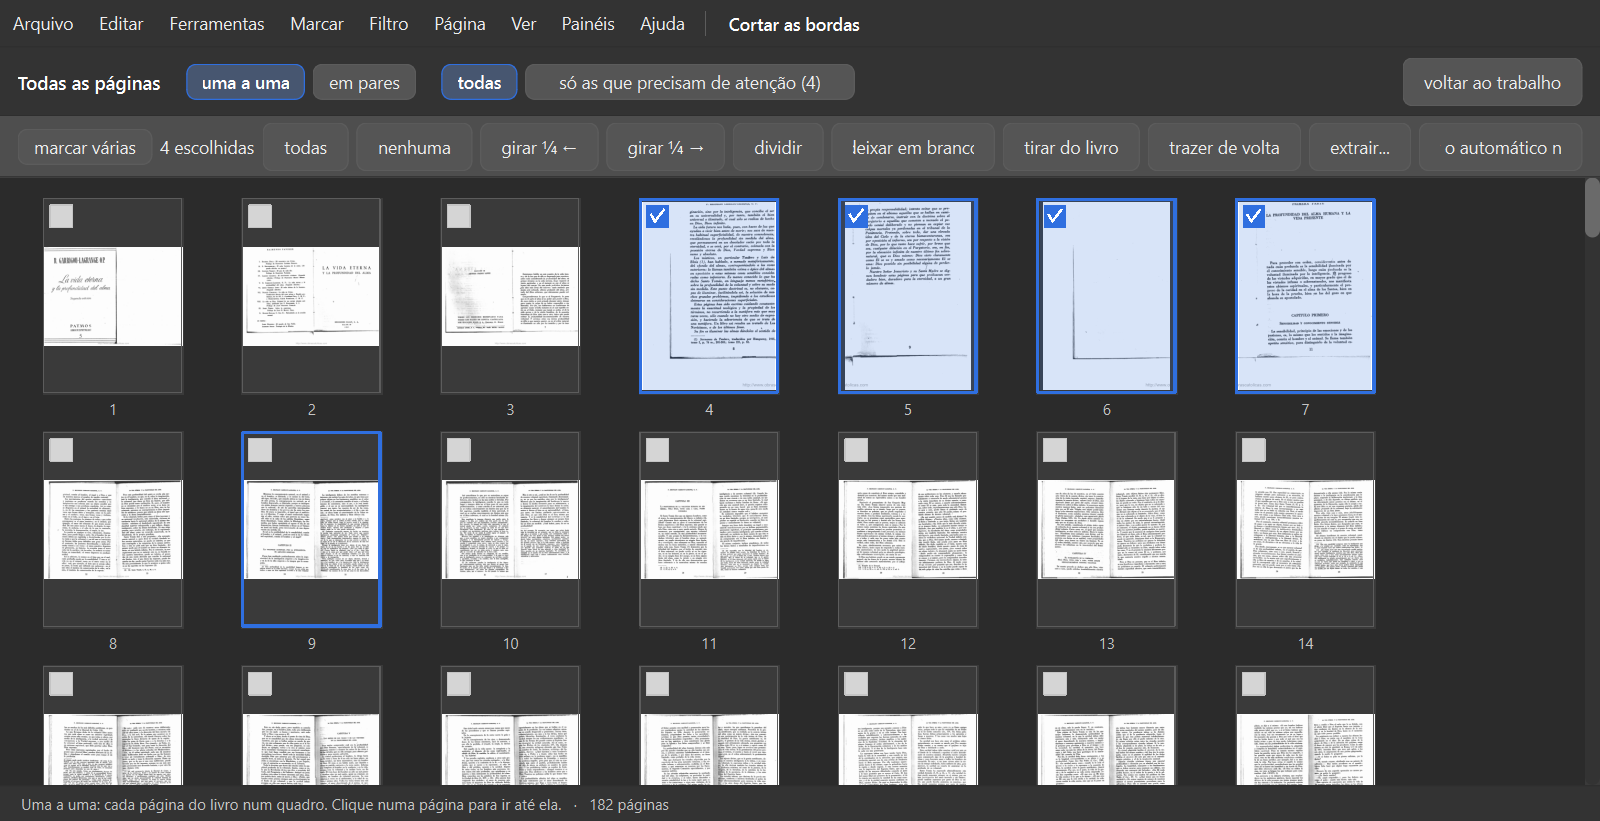
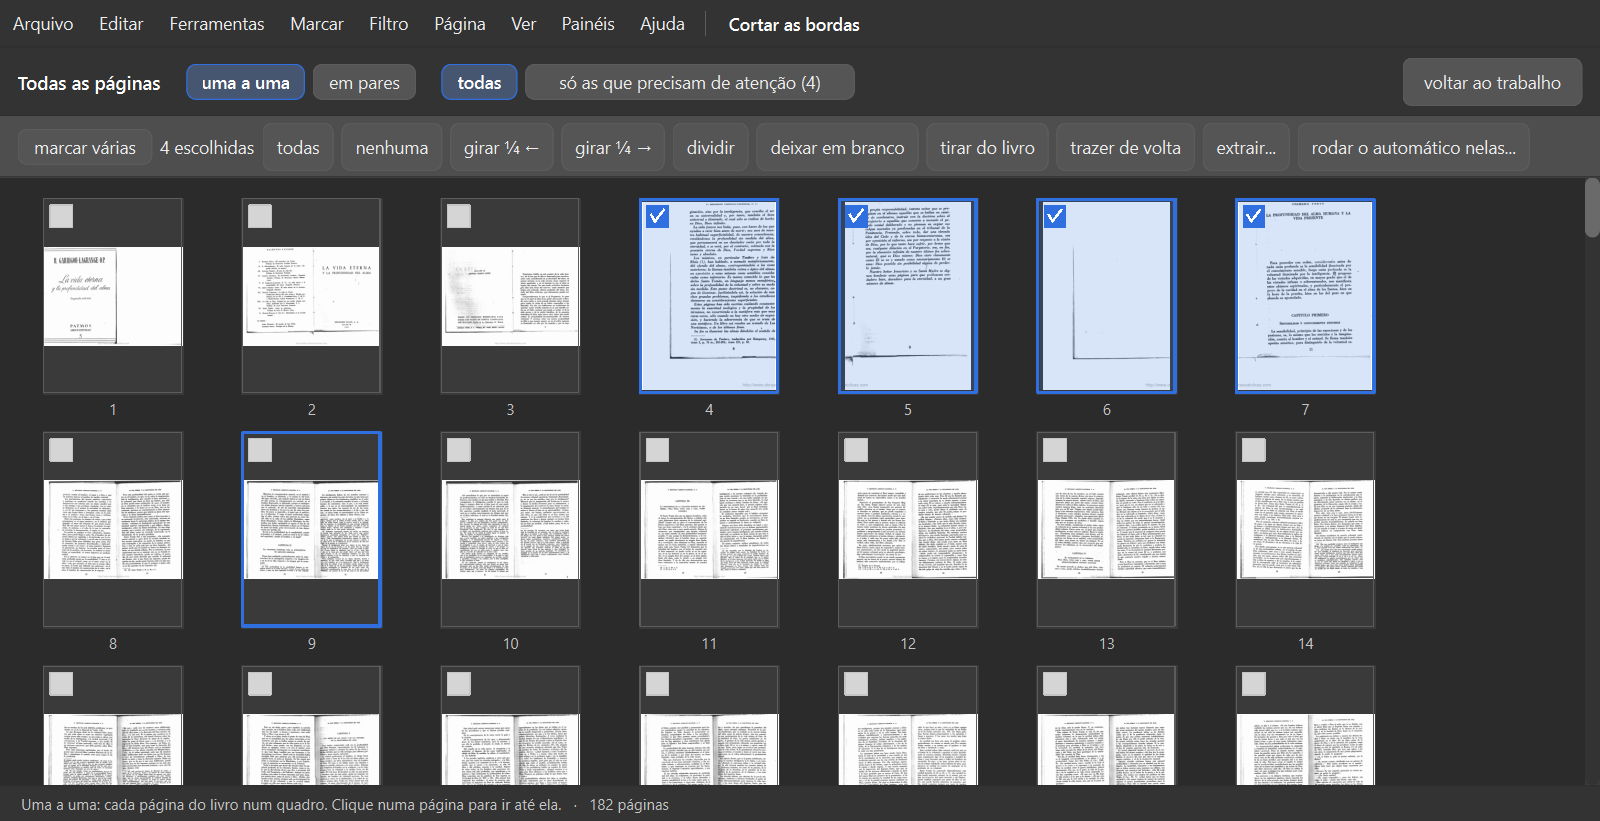
Etapa 9b-2: prints da janela de verdade (16 de 16 conferências) e ONDE-PAREI

Changed region(s): [[0.3125, 0.1523, 0.9688, 0.2132], [0.1875, 0.1523, 0.2812, 0.2132]]

diff --git a/relatorios/obra-etapa9b2/ONDE-PAREI.md b/relatorios/obra-etapa9b2/ONDE-PAREI.md
@@ -3,12 +3,23 @@
 Ramo `obra-etapa9b2-2026-10-26` (base `obra-2026-10-26` = `27b4c52`), worktree `.claude/worktrees/obra-etapa9b2`.
 Agente: layout + implementador. Ao mesmo tempo, a etapa 9b-1 mexe em menus, impressão e janelas
 (`ui/janela_principal.py`, `ui/barra_de_menu.py`, `ui/dialogo_impressao.py`, `ui/janela_confirmar.py`,
-`ui/widgets/paineis.py`, `modelos.nome_de_saida_sugerido`): evito esses arquivos.
+`ui/widgets/paineis.py`, `modelos.nome_de_saida_sugerido`): **não mexi em nenhum deles** (só chamei métodos que já
+existiam neles: `paineis.automatico.estado.do_projeto` e o atributo `medida_ao_abrir` da janela).
 
 Regra 7 (Samuel, 27/10/2026): "é só para fazer o que eu já tinha mandado, fazer as ferramentas que colocamos no
 programa funcionem como deveriam e como eu tinha escolhido."
 
-**Situação: em andamento** (começada em 27/10/2026).
+**Situação: PRONTO PARA CONFERIR** (27-28/10/2026). Falta: verificador separado, conferência do Samuel. Nada juntado.
+
+## Em uma frase
+
+Agora a grade "Todas as páginas" divide as folhas escolhidas (com a conta do ScanTailor do "dividir esta", com
+andamento); a faixa preta da tampa do scanner some também pelo Automático, cortada ou pintada de branco como o livro
+escolher; as telas e as miniaturas mostram a página movida como sai no PDF, e a tela troca pela imagem do PDF quando
+ela fica pronta, com as duas bolinhas de carregamento; com zoom a roda anda pela página e o lado a lado tem zoom; o
+Cortar tem a caixinha "Margens iguais"; o desfazer tira o retângulo marcado (e ele não sai mais impresso) e devolve
+os avisos; o "usar em todas" do Dividir pergunta em quais folhas; "letra e traço" à mão protege a tinta; e saíram as
+duas contas que o Samuel mandou tirar.
 
 ## Decisões que esta tarefa precisa cumprir (número + palavras dele)
 
@@ -20,7 +31,7 @@ programa funcionem como deveriam e como eu tinha escolhido."
 | D-097 (13-21/10) | "É para sumir totalmente." · "tem que ficar rente a folha de papel, não pode ter preto ali." | Nada de preto da tampa no PDF. |
 | D-092 (09/10) | `rv5-pag-egenloff-047`: "O Kaique escolhe por livro" | A escolha cortar / pintar de branco é do livro. |
 | D-547 (27/10) | (escolha da gerente sobre D-066: "precisamos que o pdf saia que nem está na tela") | Todas as telas e miniaturas mostram a página movida/redimensionada como sai no PDF. |
-| D-473 / D-066 / D-064 | D-066: "precisamos que o pdf saia que nem está na tela" · D-064: "é só colocar uma bolinha de carregamento, pode ter uma pro livro inteiro e outra para a pagina que estamos, quando passsamos o mouse em cima mostra a mensagem de porcentagem e quantas paginas carregaram já." | Quando a medida no tamanho do PDF termina, a tela troca pela imagem do PDF reduzida (troca da 10b, `ui/tarefas.py`). |
+| D-473 / D-066 / D-064 | D-066: "precisamos que o pdf saia que nem está na tela" · D-064: "é só colocar uma bolinha de carregamento, pode ter uma pro livro inteiro e outra para a pagina que estamos, quando passsamos o mouse em cima mostra a mensagem de porcentagem e quantas paginas carregaram já." | Quando a medida no tamanho do PDF termina, a tela troca pela imagem do PDF reduzida (troca da 10b, `ui/tarefas.py`), e as duas bolinhas. |
 | D-568 (27/10) | `v-roda`: "Como ficou: sem zoom troca de página; Ctrl + roda dá zoom" | Com zoom, a roda anda pela página. |
 | D-570 (27/10) | `v-zoom-pares`: "Sim, zoom também no lado a lado" | O "– N% +" vale no "Duas lado a lado". |
 | D-571 (27/10) | `v-100`: "A página inteira cabendo na tela (recomendo)" | Conferir: 100% = página inteira cabendo. |
@@ -28,18 +39,149 @@ programa funcionem como deveriam e como eu tinha escolhido."
 | D-563 (27/10) | `ac-desentortar-texto`: "Tirar, voltar como era antes (recomendo)" | Sai a conta "desentortar só o bloco do texto" (D-493/D-530), com os testes dela. |
 | D-564 (27/10) | `ac-gravura-cinza`: "Não fazer: gravura continua em preto e branco (recomendo)" | Sai a chave `GRAVURA_ESCURA_EM_CINZA` (D-532), com os testes dela. |
 | D-020 (18/07) + P-129 | "13. Ctrl+Z desfaz qualquer alteração, sem limite de quantidade, e Ctrl+Shift+Z refaz" | O desfazer tira a marcação do Retângulo (lista 1.3, 1.9, 4.6); o aviso volta (1.6); o desfazer não desfaz o que não está à vista (1.7). |
-| D-090 / D-091 + P-061 | "eu devo conseguir abrir uma aba para selecionar as que eu quero ( as paginas) ou também simplismente apertar num botão e selecionar todas." · "'Selecionar todas' e 'Nenhuma'" | "usar em todas" (Bordas e Dividir) abre a lista com as exceções desmarcadas e nunca apaga exceção. |
+| D-090 / D-091 + P-061 | "eu devo conseguir abrir uma aba para selecionar as que eu quero ( as paginas) ou também simplismente apertar num botão e selecionar todas." · "'Selecionar todas' e 'Nenhuma'" | "usar em todas" (Cortar e Dividir) abre a lista com as exceções desmarcadas e nunca apaga exceção. |
 | D-156 (01/10) | "espero ter a escolha de conseguir deixar a foto em original, caso precise." | "Só neste pedaço" vale também no Preto e branco / sem "Limpar a folha". |
 | Lista de bugs 12/10 | (bug) "letra e traço" marcado à mão não protege a tinta do "Só as letras" | A marcação à mão protege a tinta. |
 | Lista de bugs 22/10 | (bug) botões que aparecem por um instante como janelinhas soltas ao abrir | Não piscam. |
 | Lista de espera 29/09 | "Recuperar o trabalho anterior" no menu do cartão (ideia de agente, "a definir") | Não é decisão do Samuel no Livro: fica como está, vira pergunta. |
+| D-114 (18/07) | "PRETO E BRANCO → slider 'Força do preto' [...] MÁGICO PRO → slider 'Intensidade' [...] MELHORAR → slider 'Clareza do fundo'" | (lista 1.2 e 5.9) o aviso da "força do preto" só na página de Preto e branco. |
+| D-037 / D-052 | R7 203: "D — Ícones na borda, tudo fechado" · R13 802: "A — Abre sozinho" | (lista 2.3) os painéis começam fechados e o Propriedades abre ao escolher Dividir/Cortar/Endireitar: como ele decidiu, nada a mudar. |
 | Lista única 1.2, 5.9, 1.4, 1.5, 1.10, 1.11, 1.13, 3.2, 2.3, 2.6, 5.3, 5.6, 5.7 | (ver `relatorios/testes-guiados/lista-unica-2026-10-23/lista.md`) | Conferir o que as etapas anteriores já resolveram; fazer só o que falta, como o Livro decide. |
 
-## Andamento (27/10, noite)
+## Como cumpri cada uma
 
-Feitos, com prova em `tests/test_decisoes_9b2.py` (commits no ramo): D-563, D-564, D-554, D-568, D-570, D-571,
-D-558, D-559, D-547 + a troca da 10b (D-473/D-064, bolinhas), desfazer da marcação (P-129; lista 1.3, 1.6, 1.7,
-1.9, 4.6), "usar em todas" do Dividir (D-090, P-061), "letra e traço" à mão (bug 12/10), "só neste pedaço"
-(D-156: já consertado antes, só a prova), botões que piscavam (bug 22/10).
-Falta: lista única (1.2/5.9, 1.4, 1.5, 1.10, 1.11, 1.13, 3.2, 2.3, 2.6, 5.3, 5.6, 5.7), reversão no código antigo,
-somas, prints, GitHub, relatório final.
+Provas em `tests/test_decisoes_9b2.py` (30 testes; todos passam aqui). **Reversão** no código antigo (`27b4c52`):
+**25 falham lá, 5 passam** — os 5 são guardas de propósito (ver "Testes"). Prints da janela de verdade (1280×657 fora da
+tela; a tela do PC está a 125%, os prints saem 1600×821) em `relatorios/obra-etapa9b2/prints/` (roteiro
+`roteiro/prints.py`, cliques por mensagens do Windows; abri e olhei todos).
+
+| Decisão / item | O que ficou no programa | Prova | Print |
+|---|---|---|---|
+| **D-558** | Botão **"dividir"** na faixa das escolhidas da grade. Divide as folhas das páginas escolhidas que saem como uma página só, pela MESMA conta do "dividir esta" (`core/dividir_a_mao.medir_para_dividir`: a folha girada como está, a tampa, a lombada pelo jeito da folha — o do ScanTailor de fábrica; as marcações à mão vão para a metade em que estão, D-528). Por trás (`ui/tarefas.TarefaDividirFolhas`), com a caixa "Dividindo as folhas escolhidas... 3 de 12" e "parar" (parar não muda nada). O livro muda numa ação só do desfazer; a grade volta com as páginas novas escolhidas. Folha já dividida fica como está. | `test_d558_*` (ScanTailor chamado nas 2 folhas, linha na lombada, só elas divididas, 1 ação, PDF com 6 páginas, Ctrl+Z junta) | `depois-03-grade-dividir.png`, `depois-04-grade-depois-de-dividir.png` |
+| **D-559** | O Automático procura a tampa em **toda folha que ele olha** (a regra da etapa 4, que não pega moldura impressa: varredura das 2.903 folhas, `relatorios/obra-etapa4/varrer-tampa-acervo.json`) e mede o resto na folha já sem ela; a folha guarda a tampa na mesma ação do Automático. O que fazer com ela é a escolha do livro **"O que fica fora da página: cortar fora / pintar de branco"** (a mesma da D-092, `Projeto.borda_preta_fazer`; "cortar fora" de fábrica): pintar = a faixa sai branca (como na etapa 4); cortar = sai branca E a página é cortada na beirada da tampa (`dividir_a_mao.corte_sem_a_tampa`; o corte feito à mão vale como está). A escolha agora fica à vista no Automático também com a borda preta desmarcada (vale para as duas). | `test_d559_*` (3 folhas como o Righetti, Automático só com Endireitar: tampa nas 3, nenhuma faixa no PDF; "cortar" → página mais baixa; "pintar" → do tamanho da folha, faixa branca; Ctrl+Z tira; moldura impressa preta inteira; a escolha à vista). Os 3 testes da etapa 4 que provavam "pelo Automático a faixa fica" foram trocados para a regra nova (o Righetti 96 de verdade: 0 linhas pretas também pelo Automático). | `depois-14-righetti-girado-com-a-faixa-da-tampa.png` × `depois-15-righetti-pelo-automatico-sem-a-faixa.png`, `depois-12-automatico-cortar.png` |
+| **D-547** | A página movida/redimensionada (ou numa folha escolhida, ou com margens iguais) aparece **como sai no PDF** (`TelaConferir._como_sai_no_pdf`: margens + `core.folha.compor_na_folha`, a mesma conta do PDF) no **lado a lado**, no **"antes / depois"**, na **tela cheia dos filtros**, nos **cartões do painel Filtro** e na **miniatura** dela. As ferramentas em que se marca, corta, divide ou endireita SOBRE a página continuam mostrando a página (D-546: a marcação e o corte são frações da página); o Mover já compunha. | `test_d547_*` (página a 60%: a caixa do texto no lado a lado, no antes/depois, na tela cheia e na miniatura é a do PDF, até 3%) | `depois-08-mover-60-por-cento.png`, `depois-09-lado-a-lado-com-a-pagina-movida.png` |
+| **D-473 + D-064 (a troca da 10b)** | Quando o desenho do tamanho do PDF da página da vez termina (`GerenciadorPrevias.pedir_medida`), a imagem volta **reduzida** (INTER_AREA, no fio de fundo) e entra no lugar da prévia na chave da prévia, se a página não mudou; a tela redesenha (`pronta`). Duas **bolinhas** na barra de baixo: a **da página** gira enquanto a prévia não chegou ou a imagem do PDF está sendo feita ("Esta página: preparando a imagem igual ao PDF..."), a **do livro** gira enquanto o livro é medido por trás (D-284) ou as marcações são preparadas, com "Livro: 45% (90 de 200 folhas já carregadas)" no balão. Paradas, não aparecem. | `test_d473_d064_*` (bolinha gira com a frase; quando chega, a prévia da tela é a imagem do PDF; bolinha para) | `depois-10-...png` (a bolinha da página aparece ao lado de "página 11 de 182") |
+| **D-568** | Com zoom, a roda **anda pela página** (Shift ou a roda de lado: para os lados), parando na beirada; sem zoom troca de página; Ctrl+roda dá zoom. Na Mão/marcar e nas ferramentas de página. | `test_d568_*` (Mão e Endireitar) | `depois-06-zoom-156-roda-andou-para-baixo.png` |
+| **D-570** | O "– N% +", "ajustar à tela" e Ctrl+roda valem no "Duas lado a lado": 100% = o par inteiro na tela; acima, as páginas crescem (a da vez fica à vista; a roda rola, a barra de baixo vai para os lados). | `test_d570_*` (alturas × 1,25; Ctrl+roda; volta a 100%) | `depois-07-lado-a-lado-zoom-125.png` |
+| **D-571** | Conferido: "100%" já era a página inteira cabendo na tela (encosta na largura ou na altura, com a moldura). Nada mudou. | `test_d571_*` | `depois-05-zoom-100-pagina-inteira.png` |
+| **D-554** | Caixinha **"Margens iguais"** no "Para o livro todo" do Cortar: liga/desliga as margens iguais do LIVRO (o mesmo valor da etapa do Automático, que passa a mostrá-la), numa ação do desfazer; mostra o valor do livro sempre. | `test_d554_*` (Automático acompanha, Ctrl+Z, PDF com as páginas do mesmo tamanho) | `depois-01-cortar-margens-iguais.png`, `depois-02-...marcada.png` |
+| **D-563** | Saiu a conta "só o bloco do texto" (`_so_o_bloco_do_texto`, `so_o_bloco`, os números) e os 2 testes dela; a caixa do conteúdo é a de sempre. | `test_d563_*` | — |
+| **D-564** | Saiu `GRAVURA_ESCURA_EM_CINZA` e a conta (`_e_gravura_escura_ou_reticula`) e os 4 testes dela; ficou a prova de que o Palatino 74 sai em 1 bit. | `test_d564_*`, `test_decisoes_nucleo2.py::test_d564_palatino_74_continua_em_1_bit` | — |
+| **D-020 / P-129 / lista 1.3, 4.6, 1.7** | Toda mudança da marcação (área nova, "Limpar tudo", "Deixar a folha em branco", procurar de novo, mexer numa área) vira **uma ação do Histórico** com a marcação de antes e de depois: o Ctrl+Z, o menu e o desfazer de baixo a tiram e o PDF sai sem ela. Antes ela ficava fora do Histórico, e o desfazer de baixo desfazia a ação ANTERIOR (no Righetti, o giro das 135 folhas: 1.7). O "desfazer" do painel Marcar usa o mesmo desfazer quando a última ação é a marcação da página. | `test_p129_*` (retângulo "pintar" branco sobre o texto: some no PDF; desfazer de baixo o tira, o giro fica, o texto volta; "Limpar tudo" + desfazer traz de volta); promessa P-129 sem "aguarda" | `depois-10-...png`, `depois-11-depois-do-desfazer-de-baixo.png` |
+| **lista 1.6** | Toda ação de página e de folha guarda os **avisos de antes** (`alertas`, `alertas_aceitos`), e o desfazer os devolve como eram (nem some, nem vem um a mais). | `test_lista_1_6_*` | — |
+| **lista 1.9** | A área feita **à mão** ganha o contorno cheio na cor do tipo, por cima do colorido: aparece mesmo dentro de uma área do mesmo tipo achada pela máquina. | `test_lista_1_9_*` (medida no desenho do editor) | `depois-10-retangulo-a-mao-dentro-da-area-da-maquina.png` |
+| **D-090 / P-061 (Dividir)** | O "usar em todas" do Dividir abre **"Em quais páginas?" com as folhas** ("Folha 1"...; "Selecionar todas" / "Nenhuma"); a folha com a linha acertada à mão vem desmarcada ("linha própria") e fica com a dela; cancelar não muda nada. | `test_d090_usar_em_todas_do_dividir_*`; promessa P-061 sem "aguarda" | — (janela de exec: provado no teste) |
+| **D-090 (Cortar / Bordas)** | Conferido: já não apagava a exceção (item 2.13). | `test_d090_usar_em_todas_do_cortar_*` (guarda) | — |
+| **D-156 "só neste pedaço"** | Conferido: já valia no Preto e branco (conserto `60d8c58`) e sem "Limpar a folha" (etapa 1, D-009). Só a prova. | `test_d156_*` (guarda, nos dois casos) | — |
+| **Bug 12/10 "letra e traço"** | A área marcada à mão como "letra e traço" protege a tinta do "Só as letras" (`core/misto._letra_a_mao`, passada a `_fora_do_texto`): não é apagada nem contada como "de fora". Sem essa marcação, nada muda. | `test_bug_12_10_*` (modos "Guardar só o texto" e rede: a nota fica; o resto da página igual) | — |
+| **Bug 22/10 botões que piscam** | Os 3 botões do "Só as letras" e o "ver todas" das miniaturas não são mais mostrados antes de ter pai (viravam janelinhas soltas); os quadros da grade também não viram janela ao serem trocados. | `test_bug_22_10_*` (um vigia de janelas soltas) | — |
+| **lista 1.2 + 5.9** | O aviso "Ficou escura" / "Texto quase sumiu" (medido no cartão Preto e branco, com o botão da força do preto) só fica na página que sai em **Preto e branco** (como `analise.analisar_resultado` já dizia); ali o "usar mais fraco" muda a força do preto. Nas páginas de Mágico pro e Melhorar ele sai. | `test_lista_1_2_e_5_9_*` | — |
+| **lista 1.10** | A Tab da "próxima dúvida" vai à próxima dúvida mesmo com o foco num botão ou lista da área de trabalho (um filtro de teclas da aplicação pega a Tab antes de o Qt usá-la para mudar o foco). Shift+Tab e outra tecla escolhida: como sempre. | `test_lista_1_10_*` | — |
+| **lista 1.11** | Esc na grade "Todas as páginas" volta ao trabalho (como o botão; no "escolher páginas..." do Automático, como "cancelar"). | `test_lista_1_11_*` | — |
+| **lista 5.3** | A caixinha "Escurecer sozinho a força do preto quando o texto sair falhado" (Automático, Limpar) não fica mais **cinza e marcada**: fica acesa, dá para desmarcar (a frase embaixo continua dizendo que age com "Só as letras"). | `test_lista_5_3_*` | `depois-13-automatico-limpar.png` |
+| **lista 1.4** | Já consertado na etapa 10a ("alargado nunca menor"). | (etapa 10a) | — |
+| **lista 2.3** | Como ele decidiu (D-037 "tudo fechado", D-052 "Abre sozinho"; nomes no balão, R8 302): nada a mudar. | — | — |
+
+## Testes (um arquivo por vez, no PC; TEMP e --basetemp em `_tmp/`)
+
+- **Novo:** `tests/test_decisoes_9b2.py` **30 passaram**. Reversão (`relatorios/obra-etapa9b2/reversao-no-codigo-antigo.txt`):
+  **25 falham no `27b4c52`, 5 passam** — os 5 são guardas: D-563 "a caixa de sempre", D-571 (só conferir), D-090 no
+  Cortar e D-156 ×2 (já consertados antes desta etapa).
+- **Rodados também (todos passando):** test_decisoes 26 · test_decisoes_automatico 24 · test_decisoes_avisos 13 ·
+  test_decisoes_dividir 19 · test_decisoes_impressao 22 · test_decisoes_mover 13 · test_decisoes_nucleo 38 ·
+  test_decisoes_nucleo2 21 · test_decisoes_tela 35 · test_decisoes_ver 11 · test_trabalho_nao_se_perde 82 ·
+  test_etapa10a_nao_comer (ver abaixo) · test_etapa10b_imagem 23 · test_promessas `-k "dividir or desfazer or
+  retangulo or usar"` 22 (+1 xfail de outra promessa) · test_borda_preta 29 · test_dividir_no_programa 19 ·
+  test_previa_composta 10 · test_misto_no_programa 41 · test_misto 31 · test_misto_consertos 25 ·
+  test_misto_no_projeto 12 · test_filtros_tela_cheia 11 · test_paineis_na_tela 22 · test_historico_depois_de_reabrir 11 ·
+  test_recomeco_limpa_o_historico 13 · test_zonas_na_folha 25 · test_so_neste_pedaco_no_original 22 ·
+  test_girar_cartoes_e_previas 23 · test_alerta_pb 5.
+- **Testes antigos mudados (e por quê):**
+  - `test_decisoes.py`: saíram as 2 provas da conta do D-493 (D-563 mandou tirar a conta).
+  - `test_decisoes_nucleo2.py`: saíram os 4 testes da conta ligada do D-532 (D-564); o "Palatino 74 sai em 1 bit" ficou,
+    renomeado para D-564.
+  - `test_decisoes_ver.py`: o zoom com a roda e o zoom apagado no lado a lado (D-568 e D-570 trocam esses dois
+    comportamentos; os testes agora provam o novo).
+  - `test_decisoes_dividir.py`: os 3 testes da tampa que provavam "pelo Automático a faixa fica" agora provam que sai
+    (D-559 substitui a D-495/D-499); nos sintéticos, a medida da faixa conta só linha preta de ponta a ponta (com o
+    "cortar fora" a página fica justa e as linhas de "texto" de mentira entram no alto dela).
+  - `test_girar_cartoes_e_previas.py`: o "usar em todas" do Dividir agora abre a lista; o teste da pendência D2 responde
+    a lista (como já fazia no do Cortar).
+  - `tests/promessas/promessas.md`: P-061 e P-129 sem "aguarda".
+
+## GitHub e velocidade
+
+(preenchido abaixo)
+
+## Somas "Desligado de fábrica"
+
+(preenchido abaixo)
+
+## Ressalvas (escritas, não escondidas)
+
+1. **D-559 só no Automático e no dividir:** um livro que nunca passa pelo Automático (nem é dividido à mão ou pela
+   grade) continua com a faixa, porque a medida por trás ao abrir só põe avisos (D-483) e "a página sempre abre em
+   Original, sem mexer" (D-134). Pergunta 1.
+2. **D-559 "cortar fora" é de fábrica** (é o de fábrica da escolha da D-092): as folhas que a etapa 4 só pintava agora
+   também são cortadas na beirada da tampa. A escolha muda pelo Automático (etapa Cortar): para trocar só ela é
+   preciso rodar a etapa Cortar.
+3. **D-547 não vale nas ferramentas em que se mexe sobre a página** (Marcar, Cortar, Dividir, Endireitar): lá a página
+   aparece sem o mover (D-546). A miniatura só mostra a página movida depois de a prévia dela ter sido desenhada (a
+   página que foi visitada; a que foi movida pelo "usar em todas" e nunca aberta continua crua na tira).
+4. **A troca da tela pela imagem do PDF (D-473)** só acontece nas páginas em que a tela já pedia o desenho do tamanho
+   do PDF (a regra do "Para revisar" do "Só as letras", e o acerto da marcação provisória sem filtro não traz
+   imagem). Nas outras, a prévia já sai da mesma conta (etapa 10b). A tela cheia dos filtros não pede o desenho do PDF.
+5. **A roda do mouse de verdade** não chega a uma janela fora da tela (como na etapa 6): o print 06 usou um evento de
+   roda do Qt mandado à página (o mesmo caminho da roda).
+6. **A grade com "dividir"** precisou de menos folga dos lados nos botões da faixa para nada ficar cortado a 1280.
+7. **O desfazer da marcação**: cada área marcada é uma ação do Histórico (o Histórico fica mais comprido quando se
+   marca muito). O desfazer próprio do editor de marcar continua só para o "desfazer" do painel Marcar quando a última
+   ação não é desta página.
+8. **1.10 (Tab):** a Tab não passa mais o foco entre os botões da área de trabalho (é a tecla da "próxima dúvida",
+   como a lista de atalhos manda); com outra tecla escolhida nas Configurações, a Tab volta a passar o foco.
+
+## O que não fiz (e por quê)
+
+- **Lista 1.5** ("Confirmar e processar" às vezes não abre; "a conferir", provável jeito de pilotar a janela): é da
+  `ui/janela_confirmar.py`/`janela_principal.py`, da etapa 9b-1. Não mexi.
+- **Lista 1.13** (a tela vazia ou "Preparando a prévia..." uns segundos): a bolinha da página agora mostra que está
+  carregando; deixar mais rápido é da fase de desempenho.
+- **Lista 3.2** (girar vendo a página inteira) e **2.6** (a Luz no Original; a "Área" no fim do Propriedades): o Livro
+  não decide como; perguntas 2 e 3.
+- **Lista 5.6 e 5.7** (o número de dúvidas que muda ao folhear; avisos demais): são a regra do "Para revisar" (D-254,
+  D-295, D-296, D-474: "Etapa 9 (avisos demais/falsos)"), conta do núcleo com medida no acervo; não cabem nesta etapa
+  da área de trabalho sem mexer no que outros agentes fazem. A etapa 7 já juntou o número (um só em todo lugar).
+  Para a gerente.
+- **"Recuperar o trabalho anterior"** no menu do cartão: está na Lista de espera (29/09, ideia de agente, "a
+  definir"), não é decisão do Samuel no Livro. Pergunta 4.
+- **D-555** (nome com acento) e **D-492** (o tique do menu Filtro): são de arquivos da 9b-1.
+
+## Perguntas para o Samuel (com recomendação; nenhuma trava a etapa)
+
+1. **Tampa do scanner em livro que não passa pelo Automático:** hoje ela some quando o Automático roda (qualquer
+   etapa que olhe as páginas), ao dividir à mão e no "dividir" da grade. Quer que suma também ao só abrir o livro?
+   *Recomendo não: abrir não muda página nenhuma (D-134, D-483); rodar o Automático já tira.*
+2. **Lista 3.2, "girar vendo a página inteira, como no Photoshop":** para isso o Endireitar teria de mostrar a página
+   ainda sem corte nem filtro, girando inteira (a parte de fora aparece). Hoje mostra a página como sai (cortada e
+   com o filtro), e o que gira para fora do retângulo sai também do PDF. *Recomendo: no Endireitar, mostrar a página
+   inteira girando, só enquanto se gira; ao soltar, volta a mostrar como sai. Precisa do "sim" dele (muda o que a
+   ferramenta mostra).*
+3. **Lista 2.6:** "Igualar a luz" também no Original (D-195 disse "Em todos" — os filtros que limpam?) e a "Área" mais
+   para cima no Propriedades? *Recomendo deixar a Luz só nos três filtros que limpam (o Original é "como veio") e
+   levar a ordem do Propriedades à revisão do layout.*
+4. **"Recuperar o trabalho anterior"** no menu do cartão do livro (listar as cópias guardadas antes de recomeçar):
+   *recomendo sim, numa etapa futura; hoje as cópias ficam guardadas e o aviso diz onde.*
+5. **D-559, uma escolha só para borda preta e tampa:** usei a mesma "O que fica fora da página" (D-092) para as duas.
+   *Recomendo manter uma só.*
+
+## Ideias para a Lista de espera
+
+- Mostrar também na tira as páginas movidas que nunca foram abertas (hoje só depois da prévia).
+
+## Bugs para a Lista de bugs (achados, não consertados)
+
+- 28/10: com o foco na lista do Automático as teclas vão para ela (já anotado na etapa 6).
+
+## Commits (ramo `obra-etapa9b2-2026-10-26`, com push)
+
+(ver `git log 27b4c52..`)
